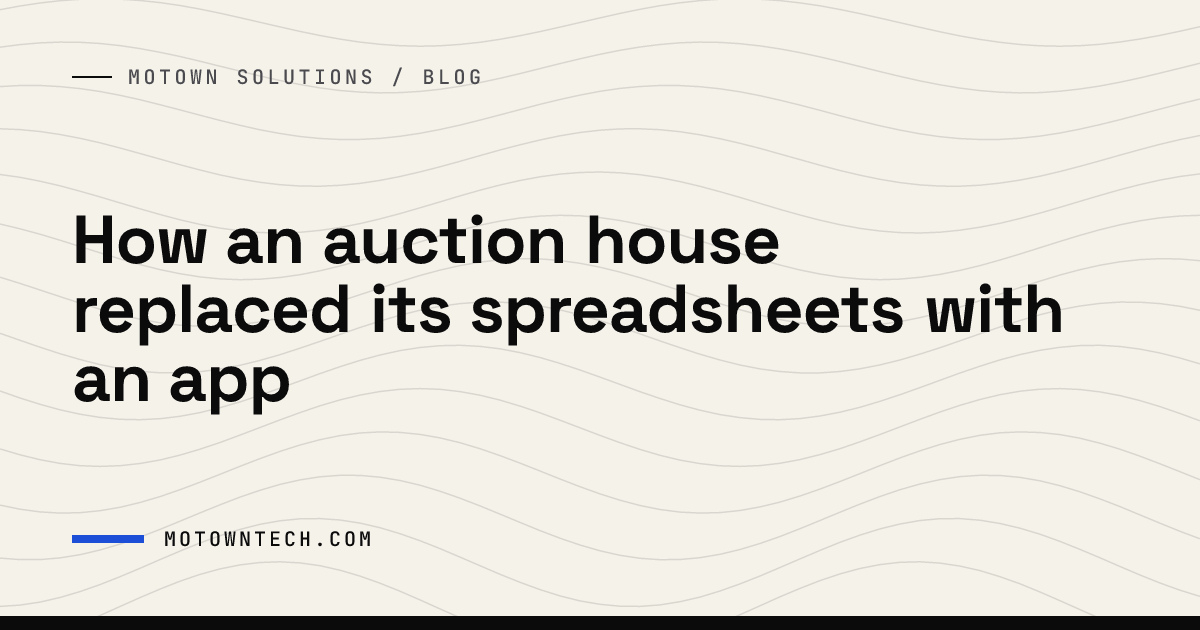
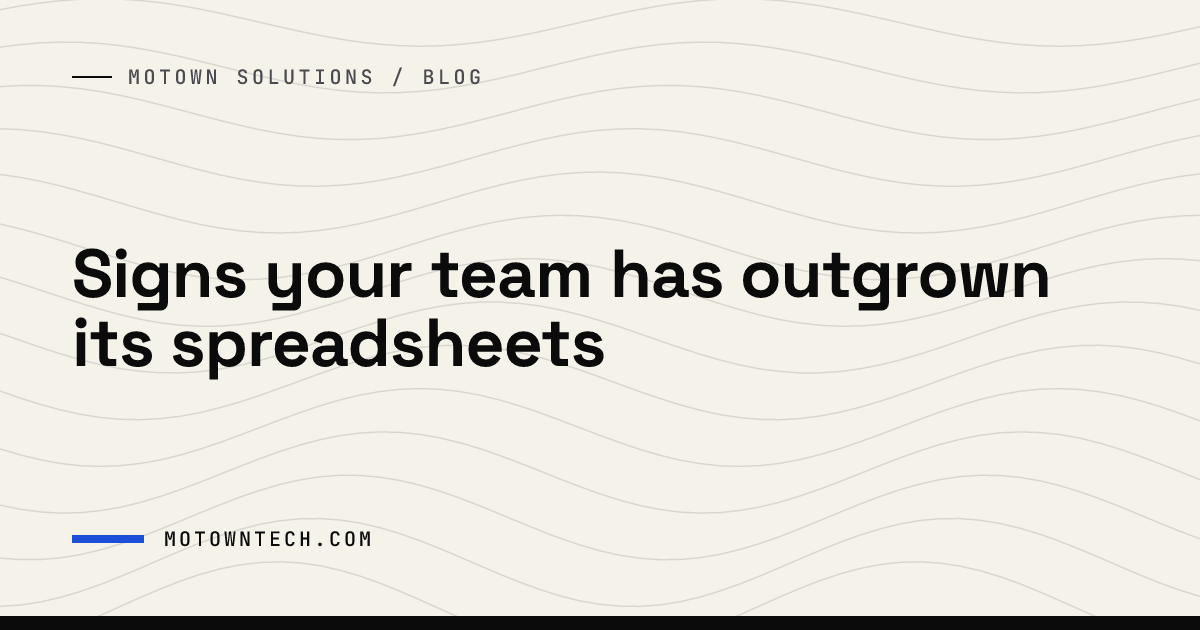
copy(blog): rewrite the auction post around the reader's problem

Changed region(s): [[0.0617, 0.3317, 0.8942, 0.6635]]

diff --git a/src/content/blog/auction-house-spreadsheets.md b/src/content/blog/auction-house-spreadsheets.md
@@ -1,53 +1,51 @@
 ---
-title: "How an auction house replaced its spreadsheets with an app"
+title: "Signs your team has outgrown its spreadsheets"
 image: ../../assets/blog/auction-house-spreadsheets-image.jpg
 imageAlt: "Loose paper slips and blank photos scattered across a blue surface, turning into a neat column of paper tags on the right"
 cover: ../../assets/blog/auction-house-spreadsheets.png
-description: "An auction house ran its inventory on spreadsheets, a photo folder and a group chat. We moved it to one system of record that tracks who changed what."
+description: "Spreadsheets fail quietly, when the same fact lives in several places and nobody can say who changed it. Here is how to spot it and what replaces it."
 pubDate: 2026-10-21
 relatedPages: ["/case-studies/auction-operations", "/spreadsheet-to-app"]
 category: case-stories
 ---
 
-An auction house we built for ran its inventory across a set of spreadsheets, a shared photo folder and a group chat. We replaced them with one app that tracks every item from intake to sale and records who changed what.
+Spreadsheets rarely fail all at once. They fail the day two people disagree about where something stands and there is no way to settle it. If the same status lives in a spreadsheet, a shared folder and a group chat, you have already reached that point, even if nobody has argued about it yet.
 
-Each of the old tools worked fine on its own. Things broke down the day two people disagreed about where a lot stood and none of the three could settle it.
+## Every copy is a chance to disagree
 
-## What the spreadsheet couldn't answer
+A spreadsheet can tell you where an item is, as long as someone remembered to update it. It can't tell you who changed a cell or when. That's fine while one person owns the sheet. It stops being fine once the same fact is kept in three places by three people.
 
-The staff already knew how to run an auction, and we left their process alone. For any item, they needed to know where it was, who last changed it and when.
+An auction house we worked with ran its inventory exactly this way: a set of spreadsheets, a photo folder and a group chat. Each one worked on its own. But an item could be "photographed" in the sheet, "still in storage" in the chat, and have two photos with two different names in the folder. Everyone could point to their own copy, and nothing said which one was current.
 
-A spreadsheet can tell you where an item is, if someone remembered to update it. It has no idea who changed a cell or when. Keep the same status in three places and the three drift apart. For example, the spreadsheet might have an item as photographed while the chat says it's still in storage and the photo folder holds two files with two different names. Each person can point to their own copy, and nothing shows which one is current.
+Nobody was careless. The tools just had no way to agree with each other.
 
-## One record per item
+## The fix is one record, not a better spreadsheet
 
-We built one system of record for the whole job, from intake to catalog to auction. It runs to 68 screens, all reading from the same records. Each item moves through seven stages: quick catalog, photograph, store, assign, review, catalog and auction. After that it's either sold or unsold.
+Tidier tabs, color coding and stricter naming rules all help for a while. They don't fix the underlying problem, which is that the same fact is stored more than once.
 
-The main design decision was how status works. The database works out where an item stands from the times each stage was completed, so there is no separate status field for anyone to keep in sync. Every screen and every export reads status from that one source. The database also refuses impossible states: an item can't be both sold and unsold, and it can't sit in two lots at once.
+What fixes it is a single record for each thing you track, which every screen and report reads from. For the auction house that meant one record per item, following it from intake through photography, cataloging and sale. Status isn't typed in by anyone. It comes from what has actually happened to the item, so two screens can't show two different answers.
 
-Every change is recorded against the person who made it. Deletes can be undone, so if a record is removed by mistake the week before a sale, staff can restore it (in bulk if needed) from a recently deleted screen.
+A single record also gives you two things a spreadsheet never will:
 
-## AI writes the first draft and a person approves it
+- Every change is saved against the person who made it. A disagreement becomes something you look up instead of something you argue about.
+- A row deleted from a spreadsheet the week before a sale is gone. In a proper system it can be restored.
 
-Cataloging used to mean typing titles, descriptions and keywords by hand, item by item, in the format the auction software expected. Now a cataloger uploads the photos and an AI model drafts that copy, already shaped for the auction software.
+## Let software take the tedious part, and keep the decision with people
 
-The model can't publish anything itself. A cataloger reads each draft, asks for a new version with feedback when it's off, and approves it into the inventory. If the AI service starts failing, the system pauses the queue for a while and stops sending it requests until it recovers.
+Replacing spreadsheets is also a good moment to look at the repetitive typing around them. At the auction house, catalogers used to write every title and description by hand. Now an AI model drafts that copy from the photos, and a cataloger reads, corrects and approves every draft before it goes anywhere.
 
-This is the part we'd recommend to anyone adding AI to an [automated internal process](/workflow-automation). Let the model do the tedious first pass, and leave the decision with a person.
-
-## Cataloging from a phone on the warehouse floor
-
-Most photos are taken on a phone in the warehouse, and the system is designed around that. Photos upload straight from the phone's camera. iPhone images are converted and compressed on the phone before upload and optimized again once they arrive.
-
-Changes to thousands of items at once run as bulk actions with a live progress bar, and each one is recorded in the audit trail. If someone edits the wrong batch of items, the change is in the log and can be reversed.
+That split is what we'd recommend for most [internal automation](/workflow-automation): the model does the first pass, a person makes the call.
 
 ## Signs you've outgrown your spreadsheets
 
-None of this is specific to auctions. If these sound familiar, the spreadsheet has probably stopped being the right tool:
+None of this is specific to auctions. If several of these sound familiar, the spreadsheet has probably stopped being the right tool:
 
 - The same status lives in more than one place, and they don't always agree.
 - When something goes wrong, nobody can say who changed it or when.
 - Deleting the wrong row means the data is gone.
-- Part of the real work happens in a chat thread, outside any record.
+- Real decisions happen in a chat thread and never make it back into a record.
+- One person is the only one who really understands the sheet.
 
-The [auction operations case study](/case-studies/auction-operations) has the full story, including the technical decisions behind it. Most spreadsheet replacements take roughly 4 to 8 weeks. If your team runs on spreadsheets and is starting to run into this, read how we approach [turning spreadsheets into an app](/spreadsheet-to-app), or [tell us what you're working with](/contact).
+You don't have to replace everything at once. Most teams start with the one process where disagreements cost the most, and most of these projects take roughly 4 to 8 weeks.
+
+The [auction operations case study](/case-studies/auction-operations) covers the full build. If this sounds like your team, read how we approach [turning spreadsheets into an app](/spreadsheet-to-app), or [tell us what you're working with](/contact).
